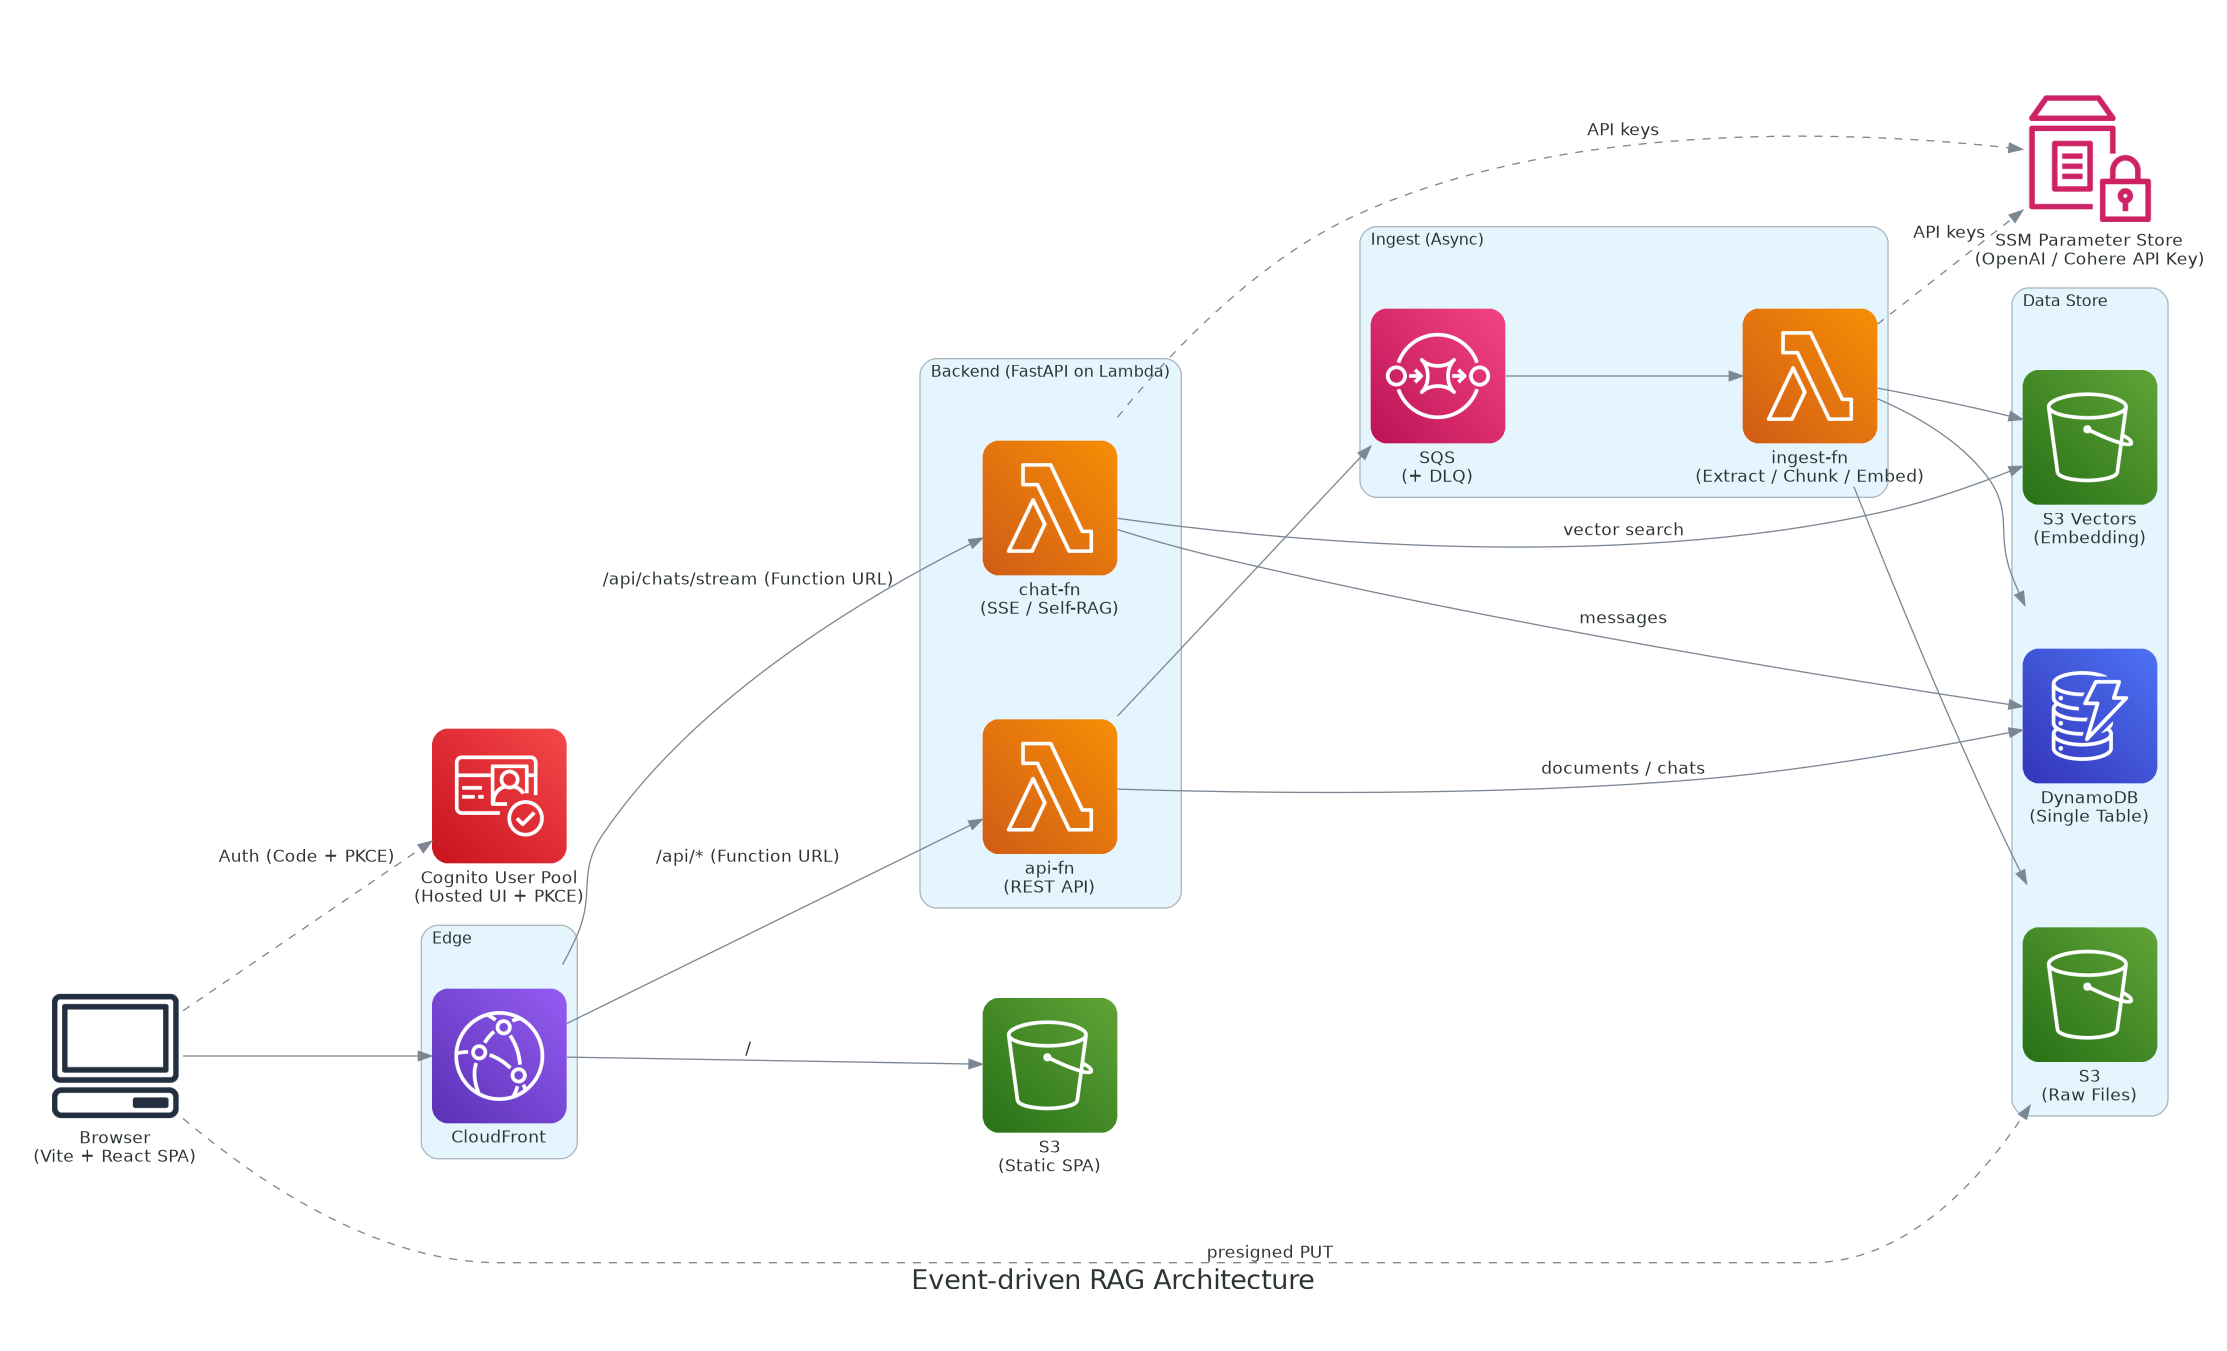
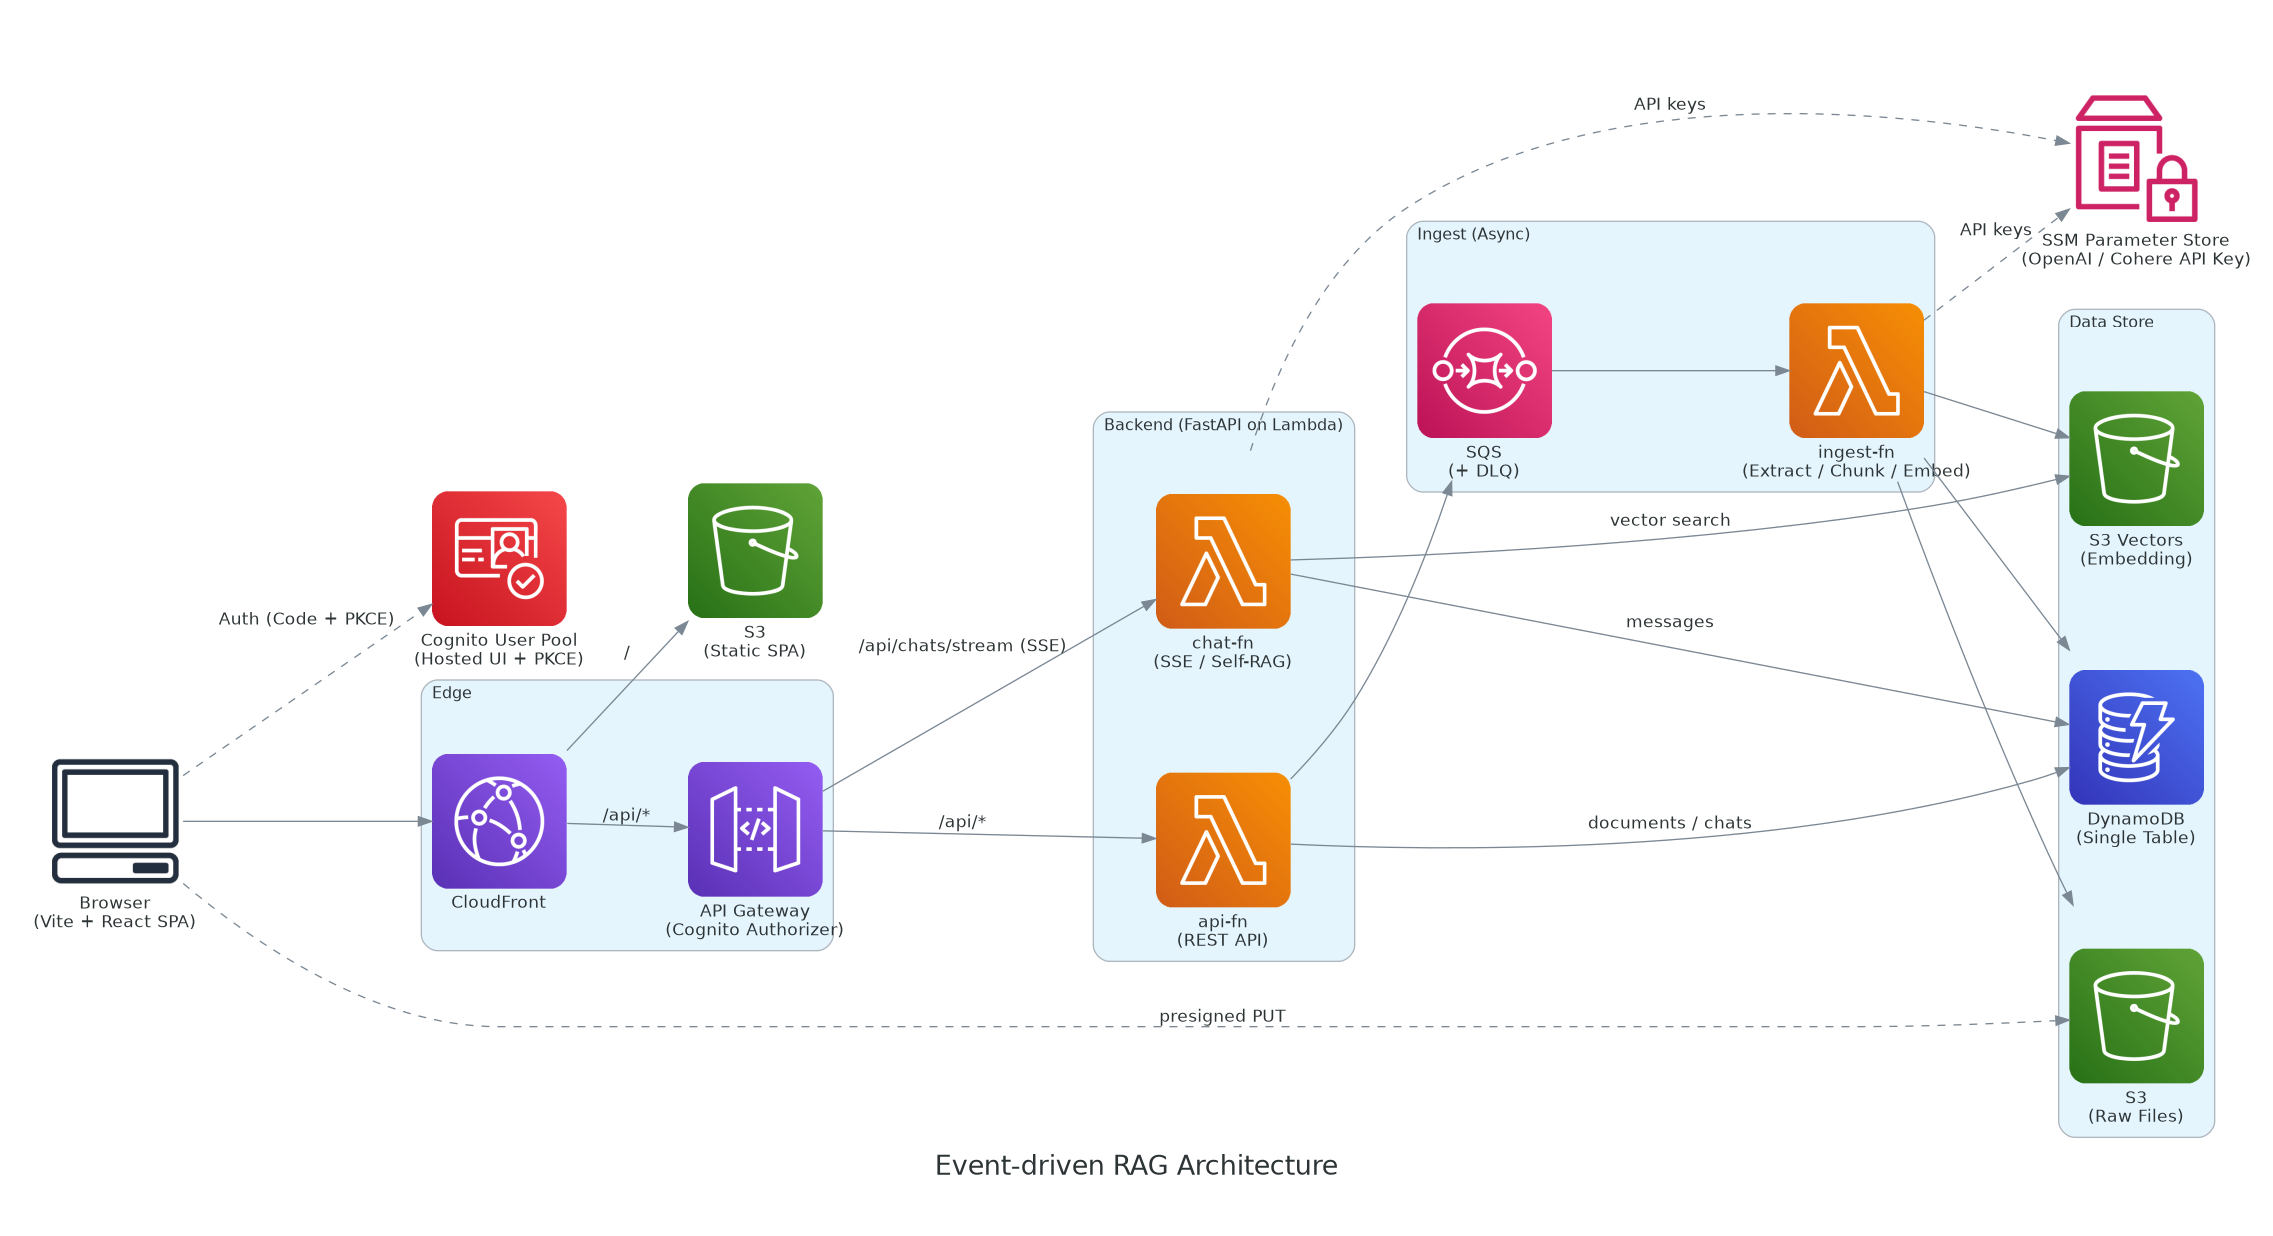
docs: describe API Gateway entry point in design document
- Update overview diagram and CloudFront routing to replace Function URLs with API Gateway.
- Add section 9.3 covering REST API resources, authorizer, and throttling.
- Include API Gateway request charges in cost estimates.

diff --git a/docs/diagrams/event_driven_rag.py b/docs/diagrams/event_driven_rag.py
@@ -12,7 +12,7 @@ from diagrams.aws.compute import Lambda
 from diagrams.aws.database import Dynamodb
 from diagrams.aws.integration import SQS
 from diagrams.aws.management import SystemsManagerParameterStore
-from diagrams.aws.network import CloudFront
+from diagrams.aws.network import APIGateway, CloudFront
 from diagrams.aws.security import Cognito
 from diagrams.aws.storage import S3
 from diagrams.onprem.client import Client
@@ -35,6 +35,7 @@ with Diagram(
 
     with Cluster("Edge"):
         cloudfront = CloudFront("CloudFront")
+        api_gateway = APIGateway("API Gateway\n(Cognito Authorizer)")
 
     spa_bucket = S3("S3\n(Static SPA)")
 
@@ -59,8 +60,9 @@ with Diagram(
     # 配信: CloudFrontでSPAとAPIを振り分け
     browser >> cloudfront
     cloudfront >> Edge(label="/") >> spa_bucket
-    cloudfront >> Edge(label="/api/* (Function URL)") >> api_fn
-    cloudfront >> Edge(label="/api/chats/stream (Function URL)") >> chat_fn
+    cloudfront >> Edge(label="/api/*") >> api_gateway
+    api_gateway >> Edge(label="/api/*") >> api_fn
+    api_gateway >> Edge(label="/api/chats/stream (SSE)") >> chat_fn
 
     # アップロード: 署名付きURLでS3へ直接 PUT
     browser >> Edge(label="presigned PUT", style="dashed") >> raw_bucket
